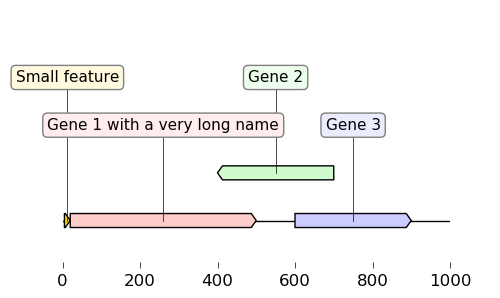
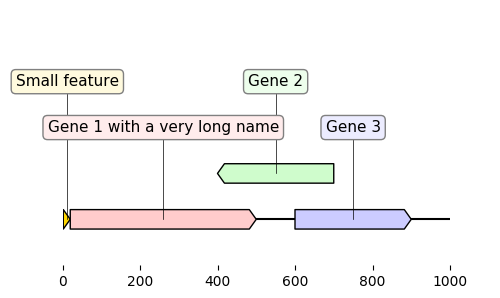
Fixed edge colors in circular graph (didn't appear with matplotlib 2.0+)

diff --git a/dna_features_viewer/GraphicRecord.py b/dna_features_viewer/GraphicRecord.py
@@ -304,7 +304,8 @@ class ArrowWedge(mpatches.Wedge):
         self.direction = direction
         self.radius = radius
         mpatches.Wedge.__init__(self, center, radius,
-                                theta1, theta2, width, **kwargs)
+                                theta1, theta2, width,
+                                **kwargs)
         self._recompute_path()
 
     def _recompute_path(self):
@@ -393,7 +394,8 @@ class CircularGraphicRecord(GraphicRecord):
 
         if draw_line:
             circle = mpatches.Circle(
-                (0, -self.radius), self.radius, facecolor='none')
+                (0, -self.radius), self.radius, facecolor='none',
+                edgecolor='k')
             ax.add_patch(circle)
         ax.axis("off")
         if with_ruler:  # only display the xaxis ticks
@@ -430,6 +432,7 @@ class CircularGraphicRecord(GraphicRecord):
         patch = ArrowWedge((0, -self.radius), r, a_start, a_end,
                            0.7 * self.feature_level_width,
                            direction=feature.strand,
+                           edgecolor='k',
                            facecolor=feature.color, zorder=1)
         ax.add_patch(patch)
 
